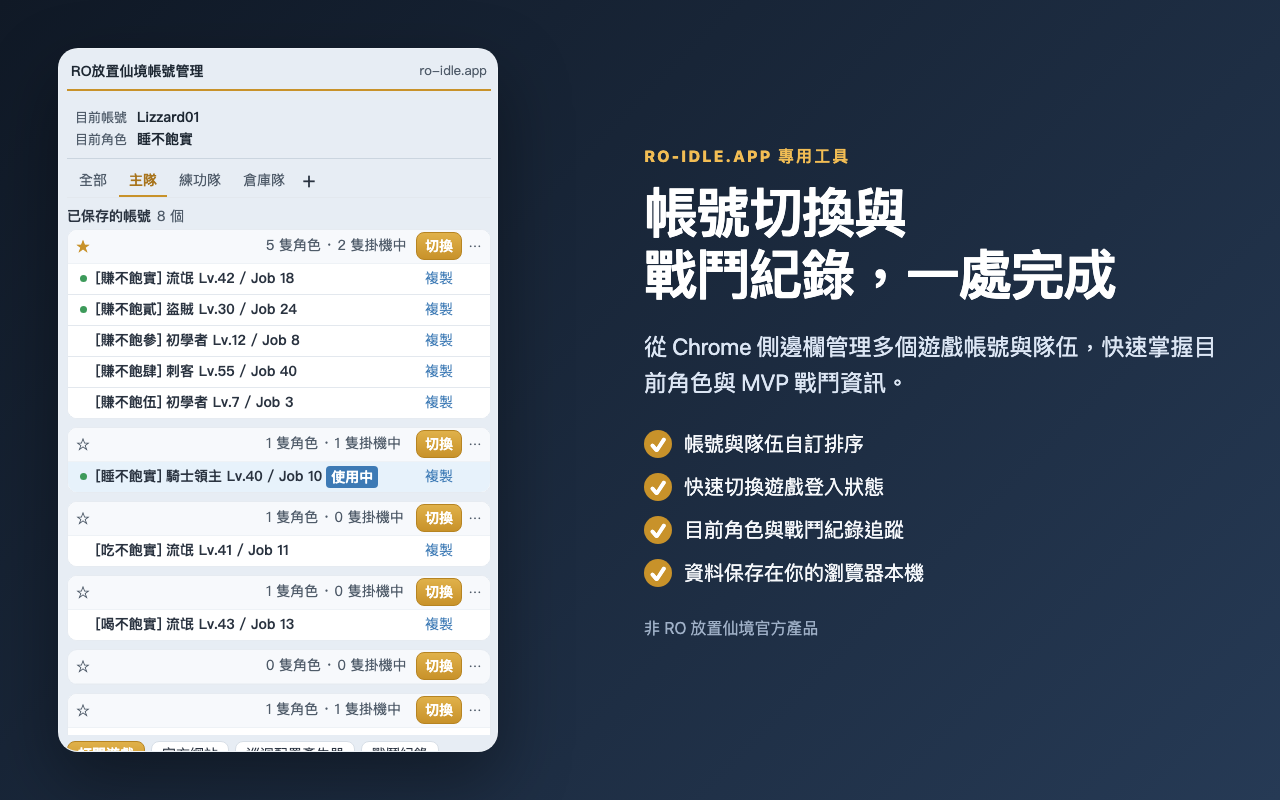
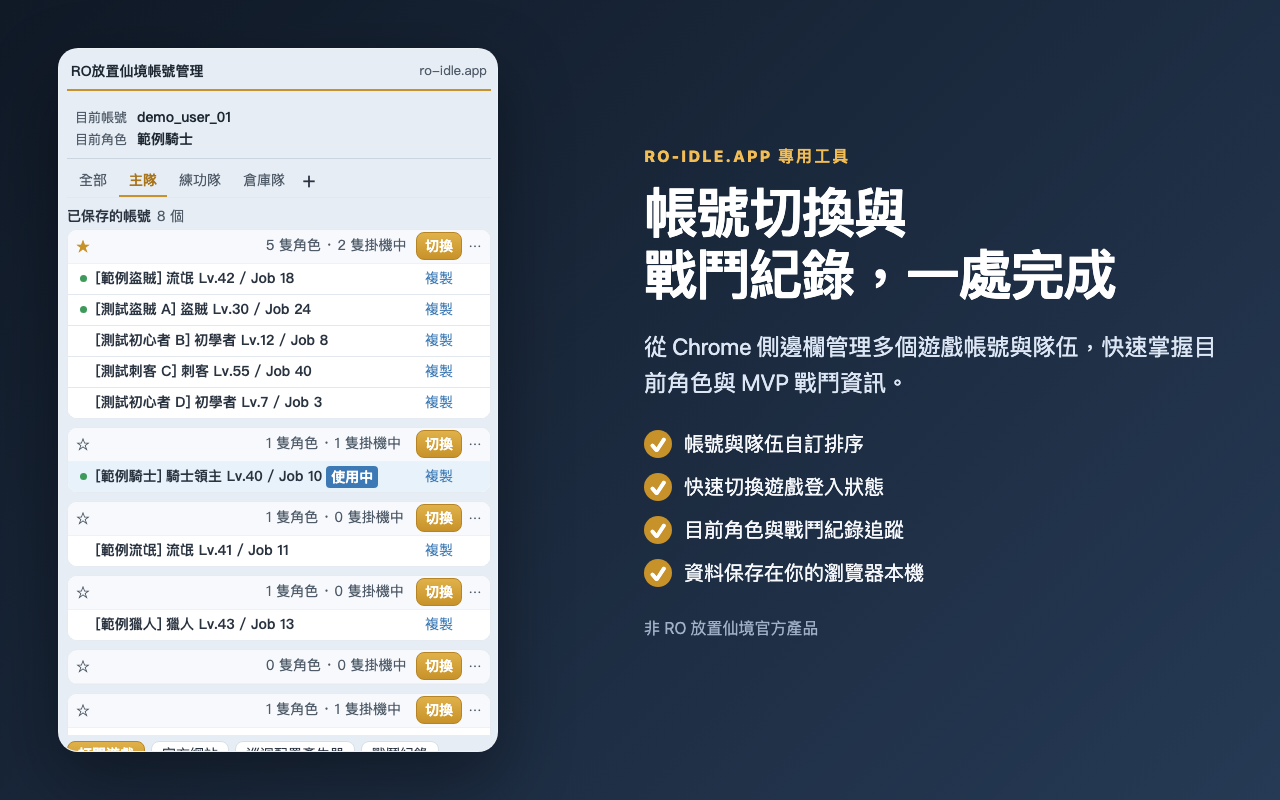
Use fictional data in Chrome Web Store preview

diff --git a/RO-idle-account-vault/sidepanel.js b/RO-idle-account-vault/sidepanel.js
@@ -188,19 +188,19 @@ const previewScenes = {
   alpha: {
     loggedIn: true,
     account: null,
-    accountId: 11554,
+    accountId: 900001,
     characters: [
-      { id: 1, name: "睡不飽實", baseLv: 60, jobLv: 50, job: "lord_knight", jobLabel: "lord_knight", running: true },
+      { id: 1, name: "範例騎士", baseLv: 60, jobLv: 50, job: "lord_knight", jobLabel: "騎士領主", running: true },
     ],
     cookies: [{ name: "session", value: "alpha-session", domain: "ro-idle.app", hostOnly: true, path: "/", secure: true, httpOnly: true, sameSite: "lax" }],
     localStorageData: { "ro-idle:display": "{\"fontSize\":14}" },
-    activeCharacterName: "睡不飽實",
+    activeCharacterName: "範例騎士",
   },
   beta: {
     loggedIn: true,
     account: null,
-    accountId: 11555,
-    characters: [{ id: 3, name: "鐵匠波伊", baseLv: 61, job: "blacksmith", jobLabel: "鐵匠", running: false }],
+    accountId: 900002,
+    characters: [{ id: 3, name: "範例鐵匠", baseLv: 61, job: "blacksmith", jobLabel: "鐵匠", running: false }],
     cookies: [{ name: "session", value: "beta-session", domain: "ro-idle.app", hostOnly: true, path: "/", secure: true, httpOnly: true, sameSite: "lax" }],
     localStorageData: { "ro-idle:display": "{\"fontSize\":16}" },
   },
@@ -298,28 +298,28 @@ const chromeApi = {
 async function buildPreviewProfiles() {
   const alphaPrint = await AccountVault.fingerprintCookies(previewScenes.alpha.cookies);
   const cast = [
-    ["睡不飽實", "lord_knight", "lord_knight"],
-    ["吃不飽實", "rogue", "流氓"],
-    ["賺不飽實", "rogue", "流氓"],
-    ["喝不飽實", "rogue", "流氓"],
-    ["ㄚㄚㄚㄚㄚ武僧", "acolyte", "服事"],
+    ["範例騎士", "lord_knight", "騎士領主"],
+    ["範例流氓", "rogue", "流氓"],
+    ["範例盜賊", "rogue", "流氓"],
+    ["範例獵人", "hunter", "獵人"],
+    ["範例武僧", "monk", "武僧"],
   ];
   const squads = ["主隊", "練功隊", "倉庫隊"];
   return Array.from({ length: 24 }, (_, index) => {
     const number = String(index + 1).padStart(2, "0");
     const [name, job, jobLabel] = cast[index % cast.length];
-    const accountId = index === 0 ? 11554 : index === 1 ? 11555 : 12000 + index;
+    const accountId = 900001 + index;
     return {
       id: `preview-${number}`,
-      name: `Lizzard${number}`,
-      account: `Lizzard${number}`,
+      name: `範例帳號 ${number}`,
+      account: `demo_user_${number}`,
       accountId,
       characters: index === 4 ? [] : index === 2 ? [
         { id: 201, name, baseLv: 42, jobLv: 18, job, jobLabel, running: true },
-        { id: 202, name: "賺不飽貳", baseLv: 30, jobLv: 24, job: "thief", jobLabel: "盜賊", running: true },
-        { id: 203, name: "賺不飽參", baseLv: 12, jobLv: 8, job: "novice", jobLabel: "初學者", running: false },
-        { id: 204, name: "賺不飽肆", baseLv: 55, jobLv: 40, job: "assassin", jobLabel: "刺客", running: false },
-        { id: 205, name: "賺不飽伍", baseLv: 7, jobLv: 3, job: "novice", jobLabel: "初學者", running: false },
+        { id: 202, name: "測試盜賊 A", baseLv: 30, jobLv: 24, job: "thief", jobLabel: "盜賊", running: true },
+        { id: 203, name: "測試初心者 B", baseLv: 12, jobLv: 8, job: "novice", jobLabel: "初學者", running: false },
+        { id: 204, name: "測試刺客 C", baseLv: 55, jobLv: 40, job: "assassin", jobLabel: "刺客", running: false },
+        { id: 205, name: "測試初心者 D", baseLv: 7, jobLv: 3, job: "novice", jobLabel: "初學者", running: false },
       ] : [{ id: index + 1, name, baseLv: 40 + (index % 21), jobLv: 10 + (index % 40), job, jobLabel, running: index % 5 === 0 }],
       cookies: index === 0
         ? previewScenes.alpha.cookies
